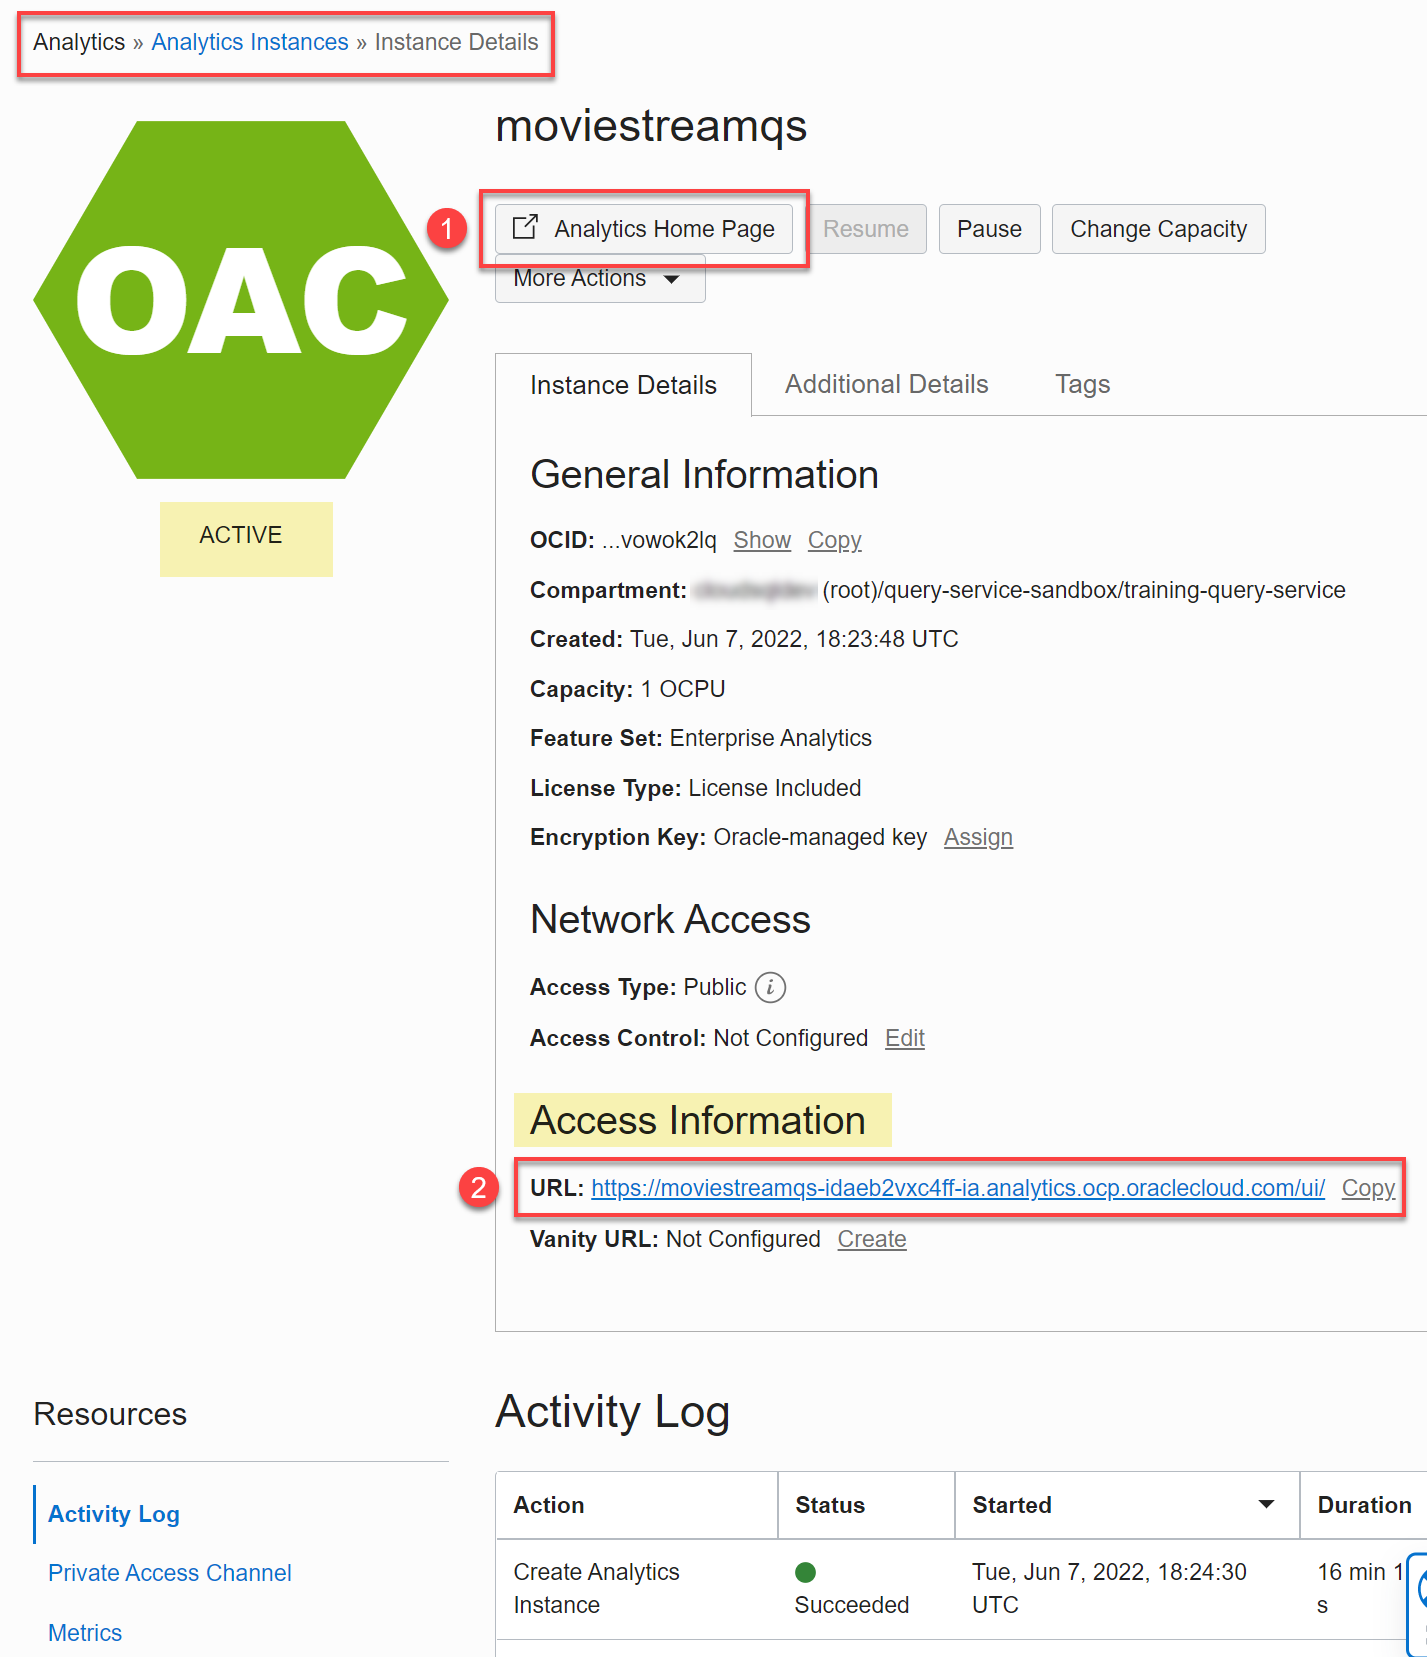
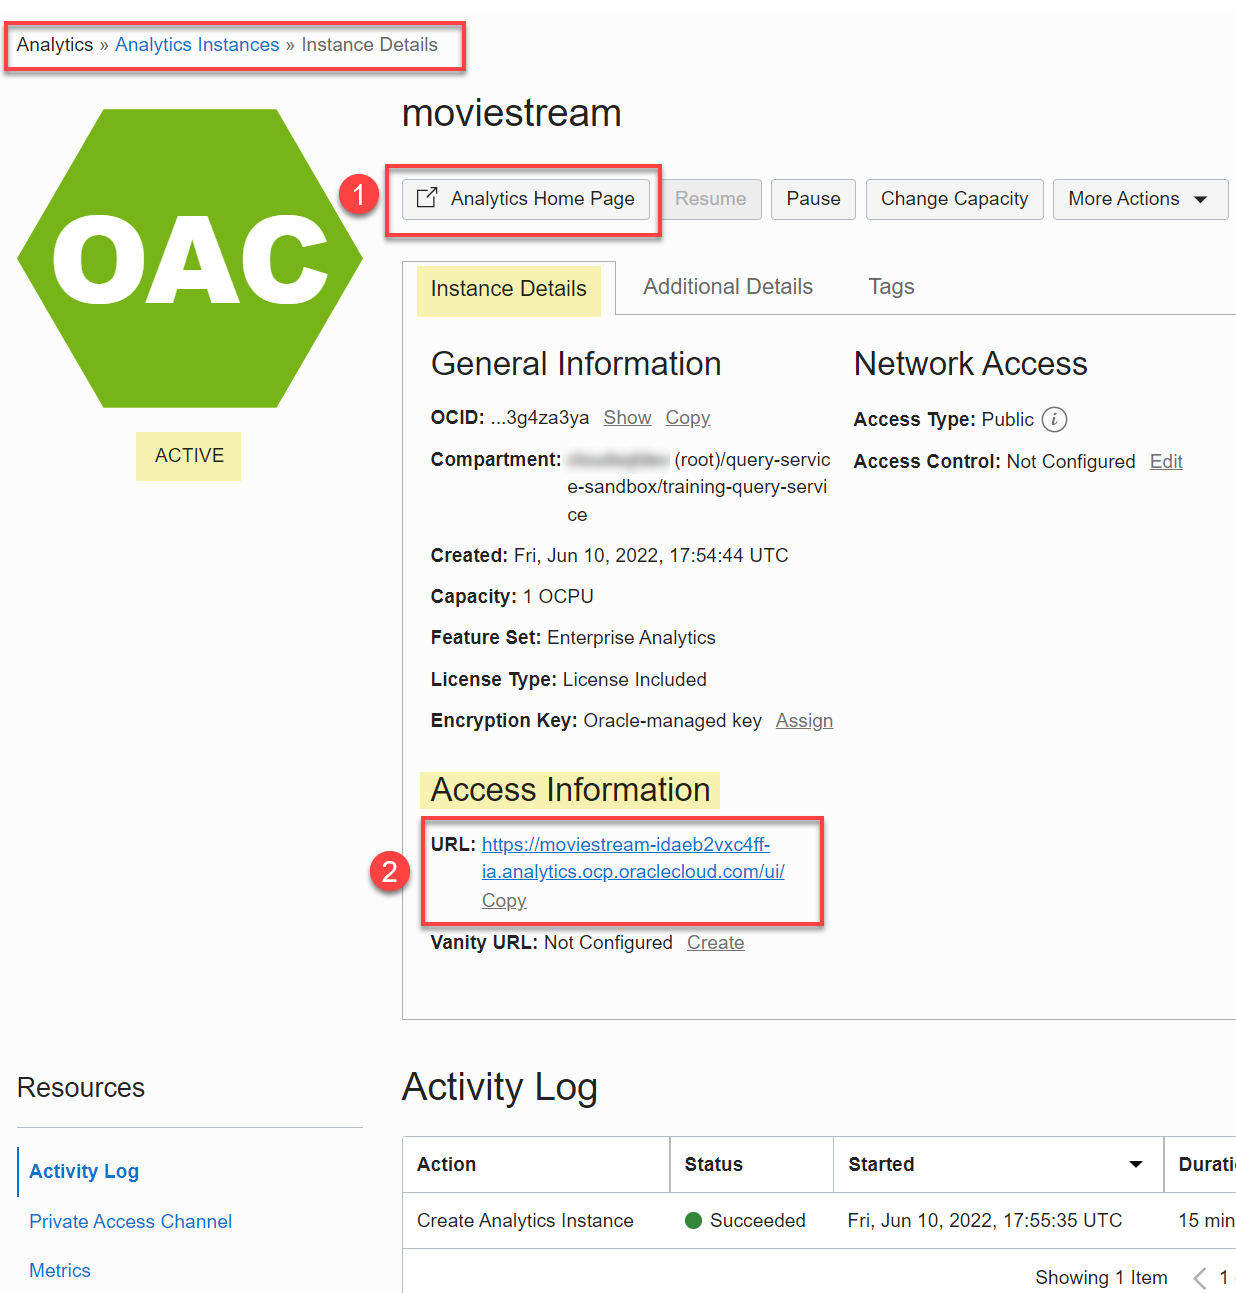
more updates to OAC sprint

diff --git a/oci/sprint-connect-qs-analytics/sprint-connect-qs-analytics.md b/oci/sprint-connect-qs-analytics/sprint-connect-qs-analytics.md
@@ -36,7 +36,7 @@ To connect to a Query Service project from Analytics Cloud, you need to create a
 
 5. In the **Create Analytics Instance** panel, specify the following:
 
-    * **Name:** Enter **moviestreamqs**.
+    * **Name:** Enter **moviestream**.
     * **Description:** Enter an optional description.
     * **Create in Compartment:** Select your compartment from the drop-down list.
     * **Feature Set:** Accept the default **Enterprise Analytics**.
@@ -51,11 +51,11 @@ To connect to a Query Service project from Analytics Cloud, you need to create a
 
     >**Note:** Provisioning an Oracle Analytics Cloud instance can take anywhere from 10 to 20 minutes.
 
-7. To access the OAC Home page, you can either click the **Analytics Home Page** button, or scroll-down to the **Access Information** section, and then click the URL.  
+7. Access the OAC Home page. You can either click the **Analytics Home Page** button, or scroll-down to the **Access Information** section, and then click the URL.  
 
     The **Oracle Analytics Home Page** is displayed.
 
-    ![The OAC Home page is displayed.](./images/oracle-analytics-home-page.png " ")
+    ![The OAC Home page is displayed.](./images/oac-home-page.png " ")
 
 ### **Create a Connection to a Query Service Data Source**
 
@@ -124,23 +124,23 @@ Datasets are self-service data models that you build specifically for your data 
 
     ![New dataset name is displayed in the banner.](./images/new-dataset-name-displayed.png " ")  
 
-6. To view your available datasets, on **Home** page, click the **Navigation** menu, and then click **Data**. On the **Data** page, click the **Datasets** tab to view your datasets list.
+    >**Note:** To view your available datasets, on **Home** page, click the **Navigation** menu, and then click **Data**. On the **Data** page, click the **Datasets** tab to view your datasets list.
 
-### **Create a Workbook and visualize the data**
+### **Create a Workbook and Visualize the Data**
 
 1. Click **Create Workbook** in the banner.
 
     ![Click create workbook.](./images/click-create-workbook.png " ")
 
-2. Display the **ACTUAL_PRICE** by **OS**. Drag and drop both tables onto the **Drop Visualizations or Data Here** canvas.
+2. Display the data for the **ACTUAL_PRICE** by **OS** columns. Drag and drop both columns onto the **Drop Visualizations or Data Here** canvas.
 
     ![Drag and drop tables onto canvas.](./images/drag-drop-tables.png " ")
 
-    The auto Visualizations bar graph for the selected actual price by OS is displayed. You can hover over any bar to display the details. You just ran analytics on top of Object Storage data!
+    The Auto Visualizations bar graph for the selected actual price by OS is displayed. You can hover over any bar to display the details. You just ran analytics on top of Object Storage data!
 
     >**Note:** Bar graphs are one of the most commonly used visualization types. You can use them to compare data across categories, identify outliers, and uncover historical high and low data points. For other graph types, see [About Visualization Types](https://docs.oracle.com/en/cloud/paas/analytics-cloud/acubi/visualization-types.html).
 
-    ![Tables Visualizations is displayed.](./images/tables-visualization-displayed.png " ")
+    ![Tables Visualizations is displayed.](./images/visualization-displayed.png " ")
 
 3. Save the workbook. Click the drop-down list next to the **Save** icon in the **New Workbook** banner to view the available options. Click **Save**.
 
@@ -150,7 +150,9 @@ Datasets are self-service data models that you build specifically for your data 
 
     ![Save workbook dialog completed.](./images/save-workbook-dialog.png " ")
 
-5. Click **Save**. The workbook name is displayed in the banner.
+5. Click **Save**. The workbook name is displayed in the banner. Click the back arrow icon on the banner to return to the OAC Home page.
+
+    ![Return to the OAC Home page.](./images/return-oac-home.png " ")
 
 6. On the Analytics Home page, you should see your new connection, dataset, and workbook.
 
